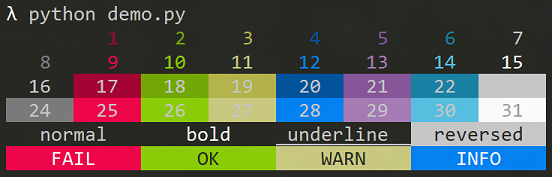
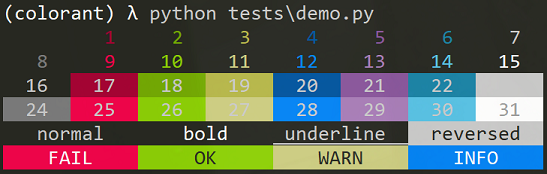
Change demo image

diff --git a/tests/demo.py b/tests/demo.py
@@ -53,7 +53,7 @@ if __name__ == '__main__':
                   .flush()
                   .text(large_block('normal'))
                   .bold(large_block('bold')).reset()
-                  .underline(large_block('underline'))
+                  .underline(large_block('underline')).reset()
                   .reversed(large_block('reversed'))
                   .flush()
                   .err(large_block('FAIL'))

diff --git a/README.md b/README.md
@@ -28,7 +28,7 @@
   - Underline
   - Reversed
 
-![demo](demo.png)
+![demo](https://raw.githubusercontent.com/Nick-Lrc/colorant/main/demo.png)
 
 ## Reference
 
